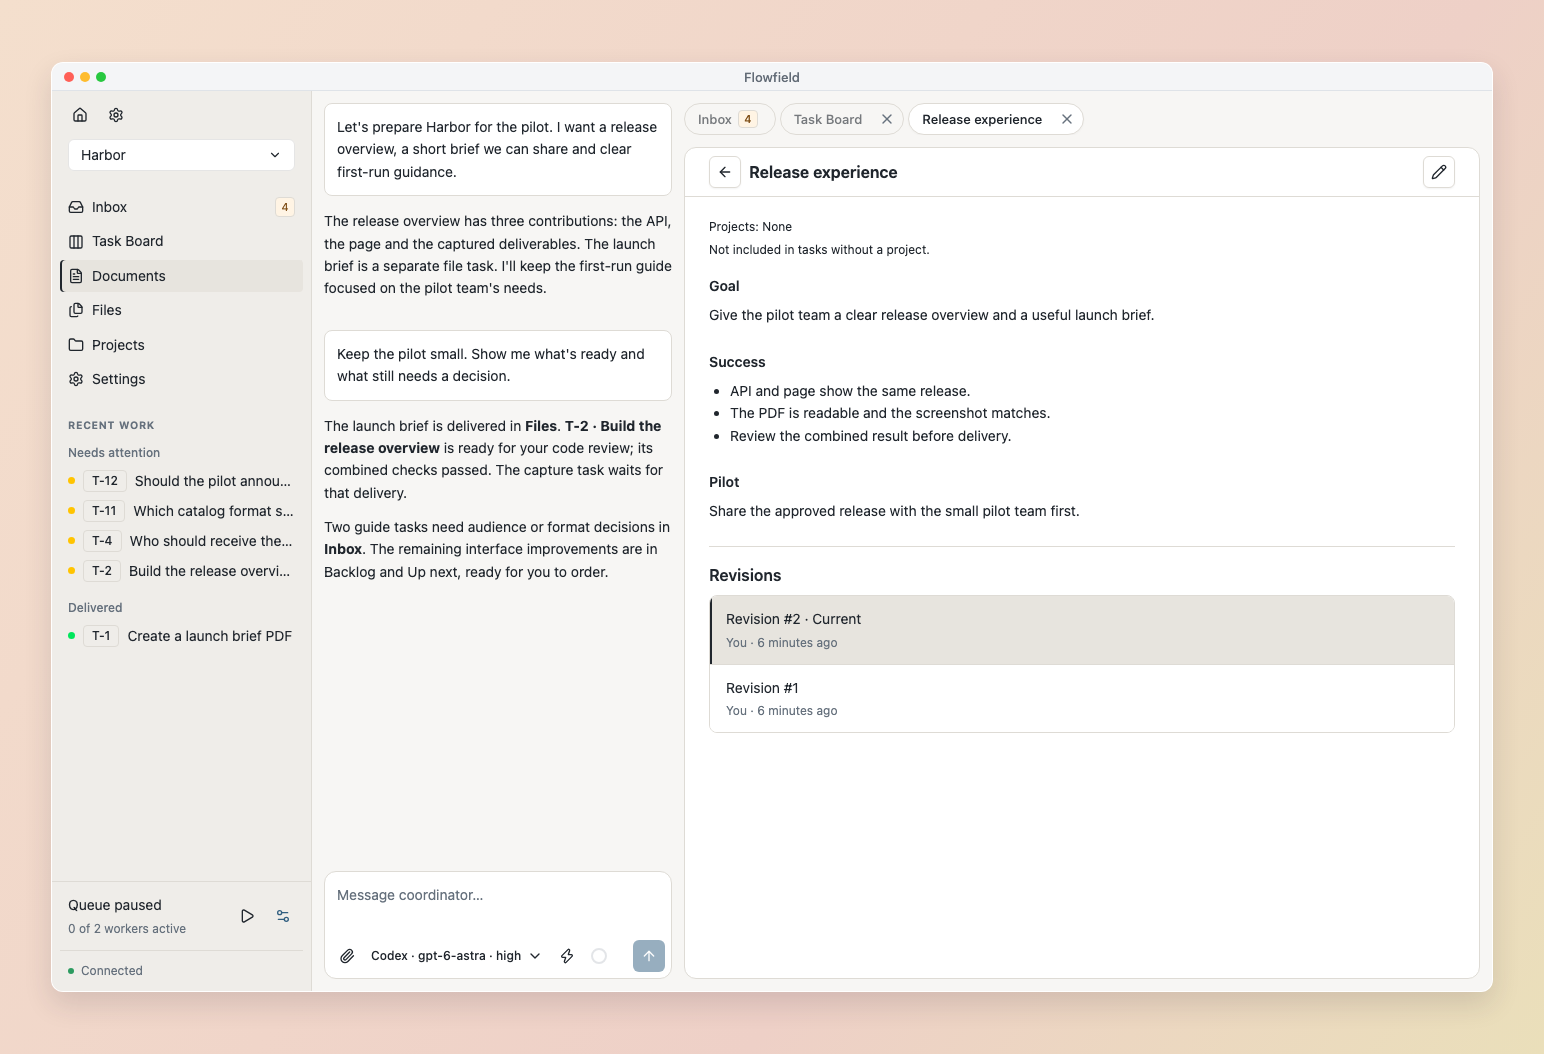
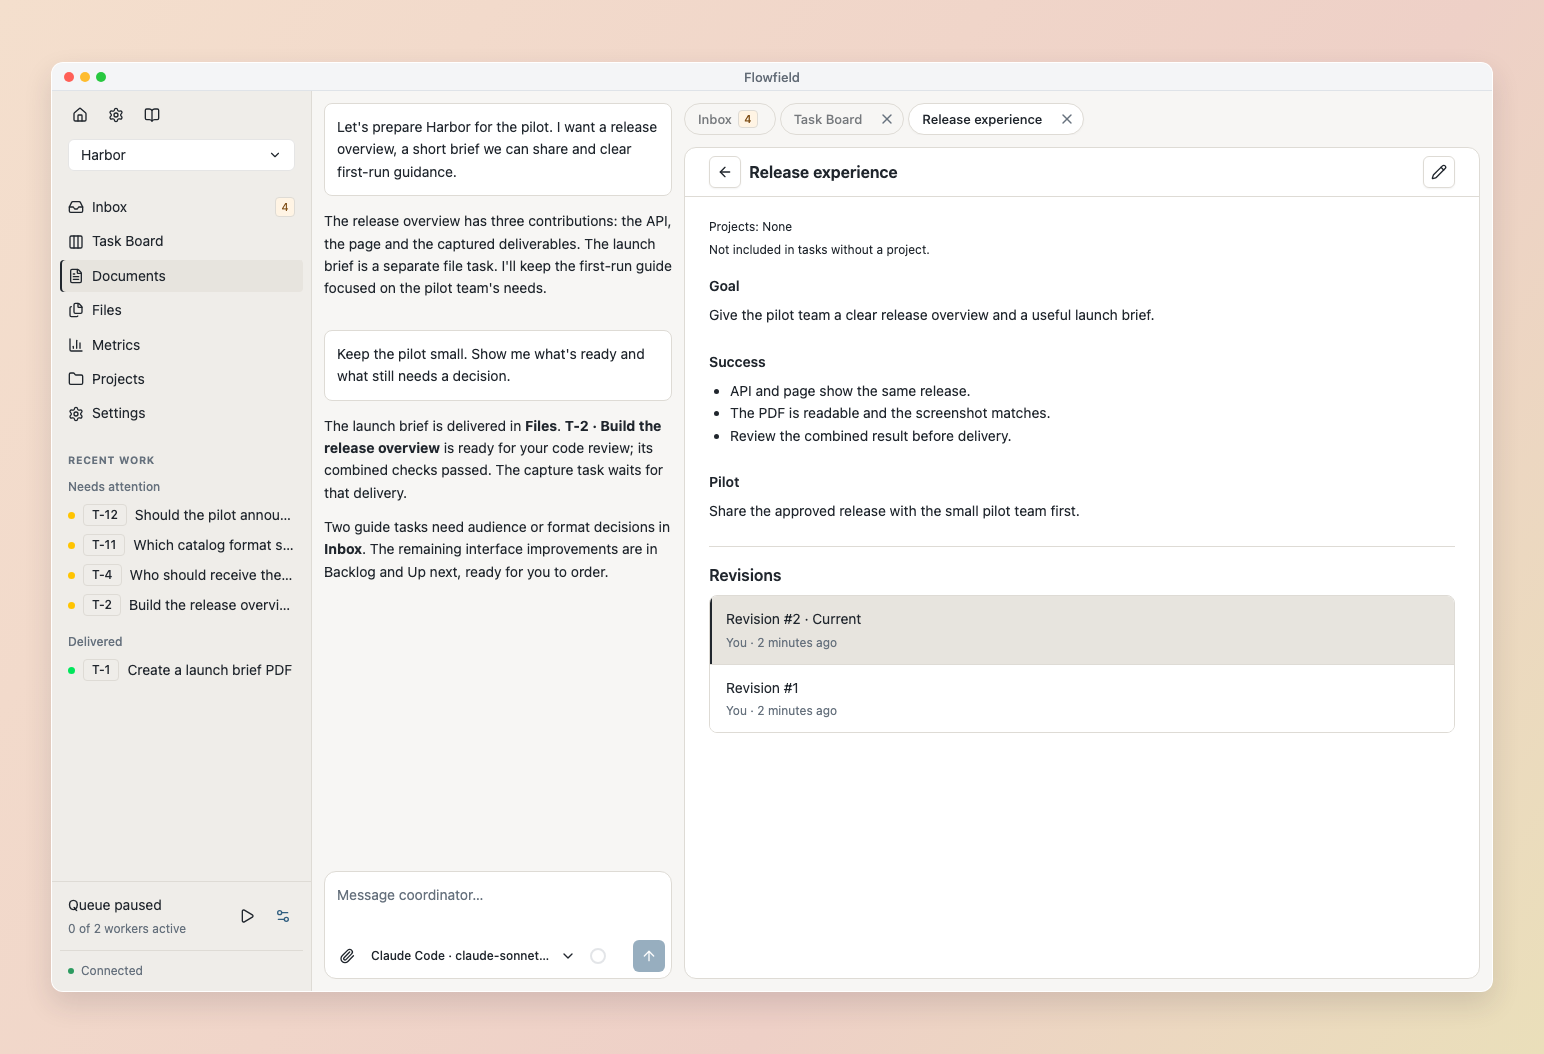
Prepare Metrics documentation and refresh the public product tour

Changed region(s): [[0.0311, 0.3036, 0.1865, 0.6376], [0.2487, 0.8805, 0.342, 0.9108], [0.4974, 0.6679, 0.5285, 0.6983]]

diff --git a/README.md b/README.md
@@ -8,6 +8,7 @@
 </p>
 
 <p align="center">
+  <a href="https://docs.flowfield.sh"><img src="https://img.shields.io/badge/docs-flowfield.sh-9b4c2c" alt="Documentation"></a>
   <a href="https://pypi.org/project/flowfield-core/"><img src="https://img.shields.io/pypi/v/flowfield-core?logo=pypi&amp;logoColor=white&amp;color=2563eb" alt="PyPI version"></a>
   <a href="https://github.com/flowfield-sh/flowfield-core/actions/workflows/tests.yml"><img src="https://img.shields.io/github/actions/workflow/status/flowfield-sh/flowfield-core/tests.yml?branch=main&amp;label=tests" alt="Tests"></a>
 </p>
@@ -43,6 +44,8 @@ Open [localhost:8765](http://127.0.0.1:8765), create a workspace and choose its 
 
 **📥 Handle decisions in one Inbox**<br>Answer questions, grant permissions and review code through Needs me. Eligible work continues after you respond. Find completed results in Delivered and earlier responses in History.
 
+**📊 See what your agents spend**<br>Track tokens, cost and running time across your workspace and individual tasks. Compare agent types, harnesses or models, then open a task to follow its work and corrections.
+
 **🔎 Review the result and decide what ships**<br>The Reviewer checks the result against the task and can request corrections. Inspect or run the code, then approve it for your local branch. Reports and files finish after configured review and remain available in Files. Ask the Coordinator to run, push or publish a result when you’re ready.
 
 ## Screenshots
@@ -60,7 +63,13 @@ Open [localhost:8765](http://127.0.0.1:8765), create a workspace and choose its 
   </tr>
 </table>
 
-Explore reported tokens and recorded execution time in task and workspace [Metrics](https://docs.flowfield.sh/metrics), with coverage and exact execution evidence.
+## Metrics
+
+See Tokens, Cost and Duration together for any period. Stacked token and cost bars show each group’s contribution; duration lines show elapsed running time without adding overlapping work. Sort tasks by any metric, narrow the range directly from a chart, or ask the Coordinator to compare the same figures through MCP.
+
+![Workspace Metrics with token and cost charts](docs/images/readme/metrics-cost.png)
+
+Cost uses versioned API prices for each reported model. Its tooltip gives the pricing date, and earlier costs retain their original rates. Open the [Metrics guide](https://docs.flowfield.sh/metrics) for filters, task callouts and accounting details.
 
 ## Contributing
 
